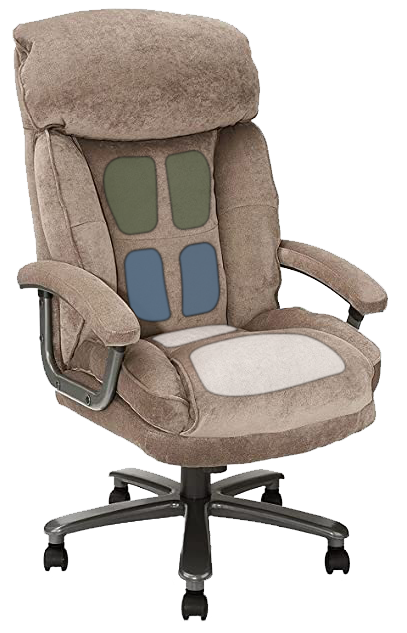
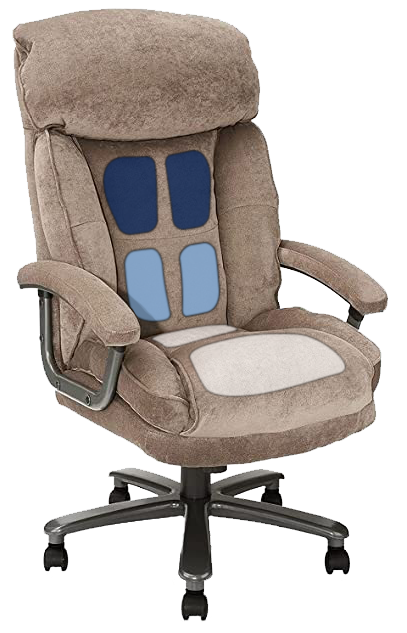
Pushed changes + PP

Changed region(s): [[0.2359, 0.2401, 0.5602, 0.5103]]

diff --git a/vibinapp/PrivacyPolicy.html b/vibinapp/PrivacyPolicy.html
@@ -1,0 +1,141 @@
+<h1>Privacy Policy</h1>
+<p>Last updated: November 15, 2022</p>
+<p>This Privacy Policy describes Our policies and procedures on the collection, use and disclosure of Your information when You use the Service and tells You about Your privacy rights and how the law protects You.</p>
+<p>We use Your Personal data to provide and improve the Service. By using the Service, You agree to the collection and use of information in accordance with this Privacy Policy. This Privacy Policy has been created with the help of the <a href="https://www.termsfeed.com/privacy-policy-generator/" target="_blank">TermsFeed Privacy Policy Generator</a>.</p>
+<h1>Interpretation and Definitions</h1>
+<h2>Interpretation</h2>
+<p>The words of which the initial letter is capitalized have meanings defined under the following conditions. The following definitions shall have the same meaning regardless of whether they appear in singular or in plural.</p>
+<h2>Definitions</h2>
+<p>For the purposes of this Privacy Policy:</p>
+<ul>
+<li>
+<p><strong>Account</strong> means a unique account created for You to access our Service or parts of our Service.</p>
+</li>
+<li>
+<p><strong>Affiliate</strong> means an entity that controls, is controlled by or is under common control with a party, where &quot;control&quot; means ownership of 50% or more of the shares, equity interest or other securities entitled to vote for election of directors or other managing authority.</p>
+</li>
+<li>
+<p><strong>Application</strong> means the software program provided by the Company downloaded by You on any electronic device, named VibinChair</p>
+</li>
+<li>
+<p><strong>Company</strong> (referred to as either &quot;the Company&quot;, &quot;We&quot;, &quot;Us&quot; or &quot;Our&quot; in this Agreement) refers to VibinChair.</p>
+</li>
+<li>
+<p><strong>Country</strong> refers to: Texas,  United States</p>
+</li>
+<li>
+<p><strong>Device</strong> means any device that can access the Service such as a computer, a cellphone or a digital tablet.</p>
+</li>
+<li>
+<p><strong>Personal Data</strong> is any information that relates to an identified or identifiable individual.</p>
+</li>
+<li>
+<p><strong>Service</strong> refers to the Application.</p>
+</li>
+<li>
+<p><strong>Service Provider</strong> means any natural or legal person who processes the data on behalf of the Company. It refers to third-party companies or individuals employed by the Company to facilitate the Service, to provide the Service on behalf of the Company, to perform services related to the Service or to assist the Company in analyzing how the Service is used.</p>
+</li>
+<li>
+<p><strong>Usage Data</strong> refers to data collected automatically, either generated by the use of the Service or from the Service infrastructure itself (for example, the duration of a page visit).</p>
+</li>
+<li>
+<p><strong>You</strong> means the individual accessing or using the Service, or the company, or other legal entity on behalf of which such individual is accessing or using the Service, as applicable.</p>
+</li>
+</ul>
+<h1>Collecting and Using Your Personal Data</h1>
+<h2>Types of Data Collected</h2>
+<h3>Personal Data</h3>
+<p>While using Our Service, We may ask You to provide Us with certain personally identifiable information that can be used to contact or identify You. Personally identifiable information may include, but is not limited to:</p>
+<ul>
+<li>Usage Data</li>
+</ul>
+<h3>Usage Data</h3>
+<p>Usage Data is collected automatically when using the Service.</p>
+<p>Usage Data may include information such as Your Device's Internet Protocol address (e.g. IP address), browser type, browser version, the pages of our Service that You visit, the time and date of Your visit, the time spent on those pages, unique device identifiers and other diagnostic data.</p>
+<p>When You access the Service by or through a mobile device, We may collect certain information automatically, including, but not limited to, the type of mobile device You use, Your mobile device unique ID, the IP address of Your mobile device, Your mobile operating system, the type of mobile Internet browser You use, unique device identifiers and other diagnostic data.</p>
+<p>We may also collect information that Your browser sends whenever You visit our Service or when You access the Service by or through a mobile device.</p>
+<h2>Use of Your Personal Data</h2>
+<p>The Company may use Personal Data for the following purposes:</p>
+<ul>
+<li>
+<p><strong>To provide and maintain our Service</strong>, including to monitor the usage of our Service.</p>
+</li>
+<li>
+<p><strong>To manage Your Account:</strong> to manage Your registration as a user of the Service. The Personal Data You provide can give You access to different functionalities of the Service that are available to You as a registered user.</p>
+</li>
+<li>
+<p><strong>For the performance of a contract:</strong> the development, compliance and undertaking of the purchase contract for the products, items or services You have purchased or of any other contract with Us through the Service.</p>
+</li>
+<li>
+<p><strong>To contact You:</strong> To contact You by email, telephone calls, SMS, or other equivalent forms of electronic communication, such as a mobile application's push notifications regarding updates or informative communications related to the functionalities, products or contracted services, including the security updates, when necessary or reasonable for their implementation.</p>
+</li>
+<li>
+<p><strong>To provide You</strong> with news, special offers and general information about other goods, services and events which we offer that are similar to those that you have already purchased or enquired about unless You have opted not to receive such information.</p>
+</li>
+<li>
+<p><strong>To manage Your requests:</strong> To attend and manage Your requests to Us.</p>
+</li>
+<li>
+<p><strong>For business transfers:</strong> We may use Your information to evaluate or conduct a merger, divestiture, restructuring, reorganization, dissolution, or other sale or transfer of some or all of Our assets, whether as a going concern or as part of bankruptcy, liquidation, or similar proceeding, in which Personal Data held by Us about our Service users is among the assets transferred.</p>
+</li>
+<li>
+<p><strong>For other purposes</strong>: We may use Your information for other purposes, such as data analysis, identifying usage trends, determining the effectiveness of our promotional campaigns and to evaluate and improve our Service, products, services, marketing and your experience.</p>
+</li>
+</ul>
+<p>We may share Your personal information in the following situations:</p>
+<ul>
+<li><strong>With Service Providers:</strong> We may share Your personal information with Service Providers to monitor and analyze the use of our Service,  to contact You.</li>
+<li><strong>For business transfers:</strong> We may share or transfer Your personal information in connection with, or during negotiations of, any merger, sale of Company assets, financing, or acquisition of all or a portion of Our business to another company.</li>
+<li><strong>With Affiliates:</strong> We may share Your information with Our affiliates, in which case we will require those affiliates to honor this Privacy Policy. Affiliates include Our parent company and any other subsidiaries, joint venture partners or other companies that We control or that are under common control with Us.</li>
+<li><strong>With business partners:</strong> We may share Your information with Our business partners to offer You certain products, services or promotions.</li>
+<li><strong>With other users:</strong> when You share personal information or otherwise interact in the public areas with other users, such information may be viewed by all users and may be publicly distributed outside.</li>
+<li><strong>With Your consent</strong>: We may disclose Your personal information for any other purpose with Your consent.</li>
+</ul>
+<h2>Retention of Your Personal Data</h2>
+<p>The Company will retain Your Personal Data only for as long as is necessary for the purposes set out in this Privacy Policy. We will retain and use Your Personal Data to the extent necessary to comply with our legal obligations (for example, if we are required to retain your data to comply with applicable laws), resolve disputes, and enforce our legal agreements and policies.</p>
+<p>The Company will also retain Usage Data for internal analysis purposes. Usage Data is generally retained for a shorter period of time, except when this data is used to strengthen the security or to improve the functionality of Our Service, or We are legally obligated to retain this data for longer time periods.</p>
+<h2>Transfer of Your Personal Data</h2>
+<p>Your information, including Personal Data, is processed at the Company's operating offices and in any other places where the parties involved in the processing are located. It means that this information may be transferred to — and maintained on — computers located outside of Your state, province, country or other governmental jurisdiction where the data protection laws may differ than those from Your jurisdiction.</p>
+<p>Your consent to this Privacy Policy followed by Your submission of such information represents Your agreement to that transfer.</p>
+<p>The Company will take all steps reasonably necessary to ensure that Your data is treated securely and in accordance with this Privacy Policy and no transfer of Your Personal Data will take place to an organization or a country unless there are adequate controls in place including the security of Your data and other personal information.</p>
+<h2>Delete Your Personal Data</h2>
+<p>You have the right to delete or request that We assist in deleting the Personal Data that We have collected about You.</p>
+<p>Our Service may give You the ability to delete certain information about You from within the Service.</p>
+<p>You may update, amend, or delete Your information at any time by signing in to Your Account, if you have one, and visiting the account settings section that allows you to manage Your personal information. You may also contact Us to request access to, correct, or delete any personal information that You have provided to Us.</p>
+<p>Please note, however, that We may need to retain certain information when we have a legal obligation or lawful basis to do so.</p>
+<h2>Disclosure of Your Personal Data</h2>
+<h3>Business Transactions</h3>
+<p>If the Company is involved in a merger, acquisition or asset sale, Your Personal Data may be transferred. We will provide notice before Your Personal Data is transferred and becomes subject to a different Privacy Policy.</p>
+<h3>Law enforcement</h3>
+<p>Under certain circumstances, the Company may be required to disclose Your Personal Data if required to do so by law or in response to valid requests by public authorities (e.g. a court or a government agency).</p>
+<h3>Other legal requirements</h3>
+<p>The Company may disclose Your Personal Data in the good faith belief that such action is necessary to:</p>
+<ul>
+<li>Comply with a legal obligation</li>
+<li>Protect and defend the rights or property of the Company</li>
+<li>Prevent or investigate possible wrongdoing in connection with the Service</li>
+<li>Protect the personal safety of Users of the Service or the public</li>
+<li>Protect against legal liability</li>
+</ul>
+<h2>Security of Your Personal Data</h2>
+<p>The security of Your Personal Data is important to Us, but remember that no method of transmission over the Internet, or method of electronic storage is 100% secure. While We strive to use commercially acceptable means to protect Your Personal Data, We cannot guarantee its absolute security.</p>
+<h1>Children's Privacy</h1>
+<p>Our Service does not address anyone under the age of 13. We do not knowingly collect personally identifiable information from anyone under the age of 13. If You are a parent or guardian and You are aware that Your child has provided Us with Personal Data, please contact Us. If We become aware that We have collected Personal Data from anyone under the age of 13 without verification of parental consent, We take steps to remove that information from Our servers.</p>
+<p>If We need to rely on consent as a legal basis for processing Your information and Your country requires consent from a parent, We may require Your parent's consent before We collect and use that information.</p>
+<h1>Links to Other Websites</h1>
+<p>Our Service may contain links to other websites that are not operated by Us. If You click on a third party link, You will be directed to that third party's site. We strongly advise You to review the Privacy Policy of every site You visit.</p>
+<p>We have no control over and assume no responsibility for the content, privacy policies or practices of any third party sites or services.</p>
+<h1>Changes to this Privacy Policy</h1>
+<p>We may update Our Privacy Policy from time to time. We will notify You of any changes by posting the new Privacy Policy on this page.</p>
+<p>We will let You know via email and/or a prominent notice on Our Service, prior to the change becoming effective and update the &quot;Last updated&quot; date at the top of this Privacy Policy.</p>
+<p>You are advised to review this Privacy Policy periodically for any changes. Changes to this Privacy Policy are effective when they are posted on this page.</p>
+<h1>Contact Us</h1>
+<p>If you have any questions about this Privacy Policy, You can contact us:</p>
+<ul>
+<li>
+<p>By email: j</p>
+</li>
+<li>
+<p>By visiting this page on our website: <a href="https://github.com/iconjone/Vibin" rel="external nofollow noopener" target="_blank">https://github.com/iconjone/Vibin</a></p>
+</li>
+</ul>

diff --git a/vibinapp/packages/app/features/home/sheet.tsx b/vibinapp/packages/app/features/home/sheet.tsx
@@ -1,7 +1,8 @@
 import { Anchor, Button, H1, Paragraph, Separator, Sheet, XStack, YStack, Slider, Image } from '@my/ui'
 import { ChevronDown, ChevronUp, Divide } from '@tamagui/lucide-icons'
 import React, { useCallback, useState } from 'react'
-import {Vibration} from 'react-native'
+// import {Vibration} from 'react-native'
+// import * as Haptics from 'expo-haptics';
 import { useLink } from 'solito/link'
 
 import throttle from 'lodash.throttle'
@@ -40,6 +41,19 @@ export function SheetDemo(props) {
     const masterThrottle = useCallback(throttle(vibinchair.controlMasterVol, 700, {trailing: true}), []);
 
     const volumeThrottle = useCallback(throttle(vibinchair.controlVol, 700, {trailing: true}), []);
+
+    //vibration function trigger by slider value
+    const vibrate = (value) => {
+      // console.log(value);
+      if (value < 341 && value > 0) {
+        // Haptics.impactAsync(Haptics.ImpactFeedbackStyle.Light);
+      } else if (value < 682 && value > 340) {
+        // Haptics.impactAsync(Haptics.ImpactFeedbackStyle.Medium);
+      } else if (value < 1023 && value > 681) {
+        // Haptics.impactAsync(Haptics.ImpactFeedbackStyle.Heavy);
+      }
+    }
+
 
 
   
@@ -80,7 +94,7 @@ export function SheetDemo(props) {
   <XStack space als = "center">
   <YStack flex={1} space="$2"  bw={0} boc="$color" br="$4" p="$2" als = "center">
           <Paragraph>Master</Paragraph>
-              <Slider size="$4" height={50} width={350} defaultValue={[1023]} max={1023} step={1} orientation="horizontal" theme="light" mx={25}  onValueChange={(valuesend) => {masterThrottle(valuesend[0]); Vibration.vibrate();}}> 
+              <Slider size="$4" height={50} width={350} defaultValue={[1023]} max={1023} step={1} orientation="horizontal" theme="yellow" mx={25}  onValueChange={(valuesend) => {masterThrottle(valuesend[0]); vibrate(valuesend[0]);}}> 
                   <Slider.Track>
                       <Slider.TrackActive />
                     </Slider.Track>
@@ -88,13 +102,13 @@ export function SheetDemo(props) {
                 </Slider>
                 <XStack space als = "center"  bw={0} boc="$color" br="$4" p="$2" >
                     <Paragraph>TL</Paragraph>
-                    <Slider size="$4" height={50} width={150} defaultValue={[1023]} max={1023} step={1} orientation="horizontal" theme="green" onValueChange={(valuesend) => {volumeThrottle("amp1", "LM", valuesend[0]); Vibration.vibrate();}}>
+                    <Slider size="$4" height={50} width={150} defaultValue={[1023]} max={1023} step={1} orientation="horizontal" theme="blue_alt1" onValueChange={(valuesend) => {volumeThrottle("amp1", "LM", valuesend[0]); vibrate(valuesend[0]);}}>
                       <Slider.Track>
                           <Slider.TrackActive />
                         </Slider.Track>
                       <Slider.Thumb circular index={0} />
                     </Slider>
-                    <Slider size="$4" height={50} width={150} defaultValue={[1023]} max={1023} step={1} orientation="horizontal" theme="green" onValueChange={(valuesend) => {volumeThrottle("amp1", "RM", valuesend[0]); Vibration.vibrate();}}>
+                    <Slider size="$4" height={50} width={150} defaultValue={[1023]} max={1023} step={1} orientation="horizontal" theme="blue_alt1" onValueChange={(valuesend) => {volumeThrottle("amp1", "RM", valuesend[0]); vibrate(valuesend[0]);}}>
                       <Slider.Track>
                           <Slider.TrackActive />
                         </Slider.Track>
@@ -104,13 +118,13 @@ export function SheetDemo(props) {
                 </XStack>
                 <XStack space als = "center"  bw={0} boc="$color" br="$4" p="$2" >
                     <Paragraph>ML</Paragraph>
-                    <Slider size="$4" height={50} width={150} defaultValue={[1023]} max={1023} step={1} orientation="horizontal" theme="blue" onValueChange={(valuesend) => {volumeThrottle("amp2", "LM", valuesend[0]); Vibration.vibrate();}}>
+                    <Slider size="$4" height={50} width={150} defaultValue={[1023]} max={1023} step={1} orientation="horizontal" theme="light_blue" onValueChange={(valuesend) => {volumeThrottle("amp2", "LM", valuesend[0]); vibrate(valuesend[0]);}}>
                       <Slider.Track>
                           <Slider.TrackActive />
                         </Slider.Track>
                       <Slider.Thumb circular index={0} />
                     </Slider>
-                    <Slider size="$4" height={50} width={150} defaultValue={[1023]} max={1023} step={1} orientation="horizontal" theme="blue" onValueChange={(valuesend) => {volumeThrottle("amp2", "RM", valuesend[0]); Vibration.vibrate();}}>
+                    <Slider size="$4" height={50} width={150} defaultValue={[1023]} max={1023} step={1} orientation="horizontal" theme="light_blue" onValueChange={(valuesend) => {volumeThrottle("amp2", "RM", valuesend[0]); vibrate(valuesend[0]);}}>
                       <Slider.Track>
                           <Slider.TrackActive />
                         </Slider.Track>
@@ -119,20 +133,20 @@ export function SheetDemo(props) {
                     <Paragraph>MR</Paragraph>
                 </XStack>
                 <XStack space als = "center"  bw={0} boc="$color" br="$4" p="$2" >
-                      <Paragraph>BF</Paragraph>
-                      <Slider size="$4" height={50} width={150} defaultValue={[1023]} max={1023} step={1} orientation="horizontal" theme="light_darker" onValueChange={(valuesend) => {volumeThrottle("amp3", "LM", valuesend[0]); Vibration.vibrate();}}>
-                        <Slider.Track>
-                            <Slider.TrackActive />
-                          </Slider.Track>
-                        <Slider.Thumb circular index={0} />
-                      </Slider>
-                      <Slider size="$4" height={50} width={150} defaultValue={[1023]} max={1023} step={1} orientation="horizontal" theme="light_darker" onValueChange={(valuesend) => {volumeThrottle("amp3", "RM", valuesend[0]); Vibration.vibrate();}}>
-                        <Slider.Track>
-                            <Slider.TrackActive />
-                          </Slider.Track>
-                        <Slider.Thumb circular index={0} />
-                      </Slider>
                       <Paragraph>BB</Paragraph>
+                      <Slider size="$4" height={50} width={150} defaultValue={[1023]} max={1023} step={1} orientation="horizontal" theme="light_darker" onValueChange={(valuesend) => {volumeThrottle("amp3", "LM", valuesend[0]); vibrate(valuesend[0]);}}>
+                        <Slider.Track>
+                            <Slider.TrackActive />
+                          </Slider.Track>
+                        <Slider.Thumb circular index={0} />
+                      </Slider>
+                      <Slider size="$4" height={50} width={150} defaultValue={[1023]} max={1023} step={1} orientation="horizontal" theme="light_darker" onValueChange={(valuesend) => {volumeThrottle("amp3", "RM", valuesend[0]); vibrate(valuesend[0]);}}>
+                        <Slider.Track>
+                            <Slider.TrackActive />
+                          </Slider.Track>
+                        <Slider.Thumb circular index={0} />
+                      </Slider>
+                      <Paragraph>BF</Paragraph>
                 </XStack>
   
     </YStack>

diff --git a/vibinapp/packages/app/features/home/screen.tsx b/vibinapp/packages/app/features/home/screen.tsx
@@ -1,5 +1,5 @@
 import { Anchor, Button, H1, Paragraph, Separator, Sheet, XStack, YStack, XGroup, Switch, Image, Label } from '@my/ui'
-import { ChevronDown, ChevronUp, Divide, Feather, PartyPopper, Flower } from '@tamagui/lucide-icons'
+import { ChevronDown, ChevronUp, Divide, Feather, Rocket, Flower } from '@tamagui/lucide-icons'
 import React, { useState } from 'react'
 import { useLink } from 'solito/link'
 
@@ -49,7 +49,7 @@ export function HomeScreen( {vibinchair, vibinchairStatus}) {
     
   const lightSet = () =>{
     setLevelMode("light");
-    vibinchair.controlMasterVol(750);
+    vibinchair.controlMasterVol(450);
     vibinchair.controlVol("amp1", "LM",450);
     vibinchair.controlVol("amp1", "RM",450);
     vibinchair.controlVol("amp2", "LM",450);
@@ -79,7 +79,7 @@ export function HomeScreen( {vibinchair, vibinchairStatus}) {
       <Button icon={Feather} w="33%" theme={levelMode ==="comfort" ?"blue":"alt2"} onPress={comfortSet}>
         Comfort
       </Button>
-        <Button icon={PartyPopper} w="32%" theme={levelMode ==="strong" ?"blue":"alt2"} onPress={strongSet}>
+        <Button icon={Rocket} w="32%" theme={levelMode ==="strong" ?"blue":"alt2"} onPress={strongSet}>
         Strong
       </Button>
       </XGroup>
@@ -88,7 +88,7 @@ export function HomeScreen( {vibinchair, vibinchairStatus}) {
         {enabled ? "Enabled" : "Disabled"}
       </Label>
       <Separator mih={40} vertical  size="$8"/>
-      <Switch size="$8"  defaultChecked = {true} onCheckedChange={(check)=>{setEnabled(check)}}>
+      <Switch size="$8"  defaultChecked = {true} onCheckedChange={(check)=>{setEnabled(check); vibinchair.mute(check)}}>
     <Switch.Thumb animation="bouncy" />
   </Switch>
   </XStack>

diff --git a/vibinapp/packages/app/vibinConnection/index.js b/vibinapp/packages/app/vibinConnection/index.js
@@ -37,6 +37,18 @@ class vibinchairControl {
       command: 'volume',
       value: vol,
     })
+    }
+
+    mute = (mBool) => {
+        var m = mBool ? 1 : 0
+        this.send({
+            type: 'command',
+            origin: 'app',
+            nId: Math.random().toFixed(2),
+            target: 'esp',
+            command: 'mute',
+            value: m,
+        })
     // this.send({type: "command", origin: "app", nId: Math.random(), target:"ampm"});// data:{command: "volume", value: vol} });
   }
   init = () => {

diff --git a/source/lib/WiFiControl/WiFiControl.cpp b/source/lib/WiFiControl/WiFiControl.cpp
@@ -167,6 +167,20 @@ void onEvent(AsyncWebSocket *server, AsyncWebSocketClient *client, AwsEventType 
 
 
           }
+          else  if (strstr((char *)target, "esp") != NULL){
+            const char *command = doc["command"];
+            const int value = doc["value"];
+            if( strstr((char *)command, "mute") != NULL){
+              if(value == 1){
+                // mute
+                digitalWrite(19, HIGH);
+              }
+              else{
+                // unmute
+                digitalWrite(19, LOW);
+              }
+            }
+          }
         }
 
         // client->ping();
